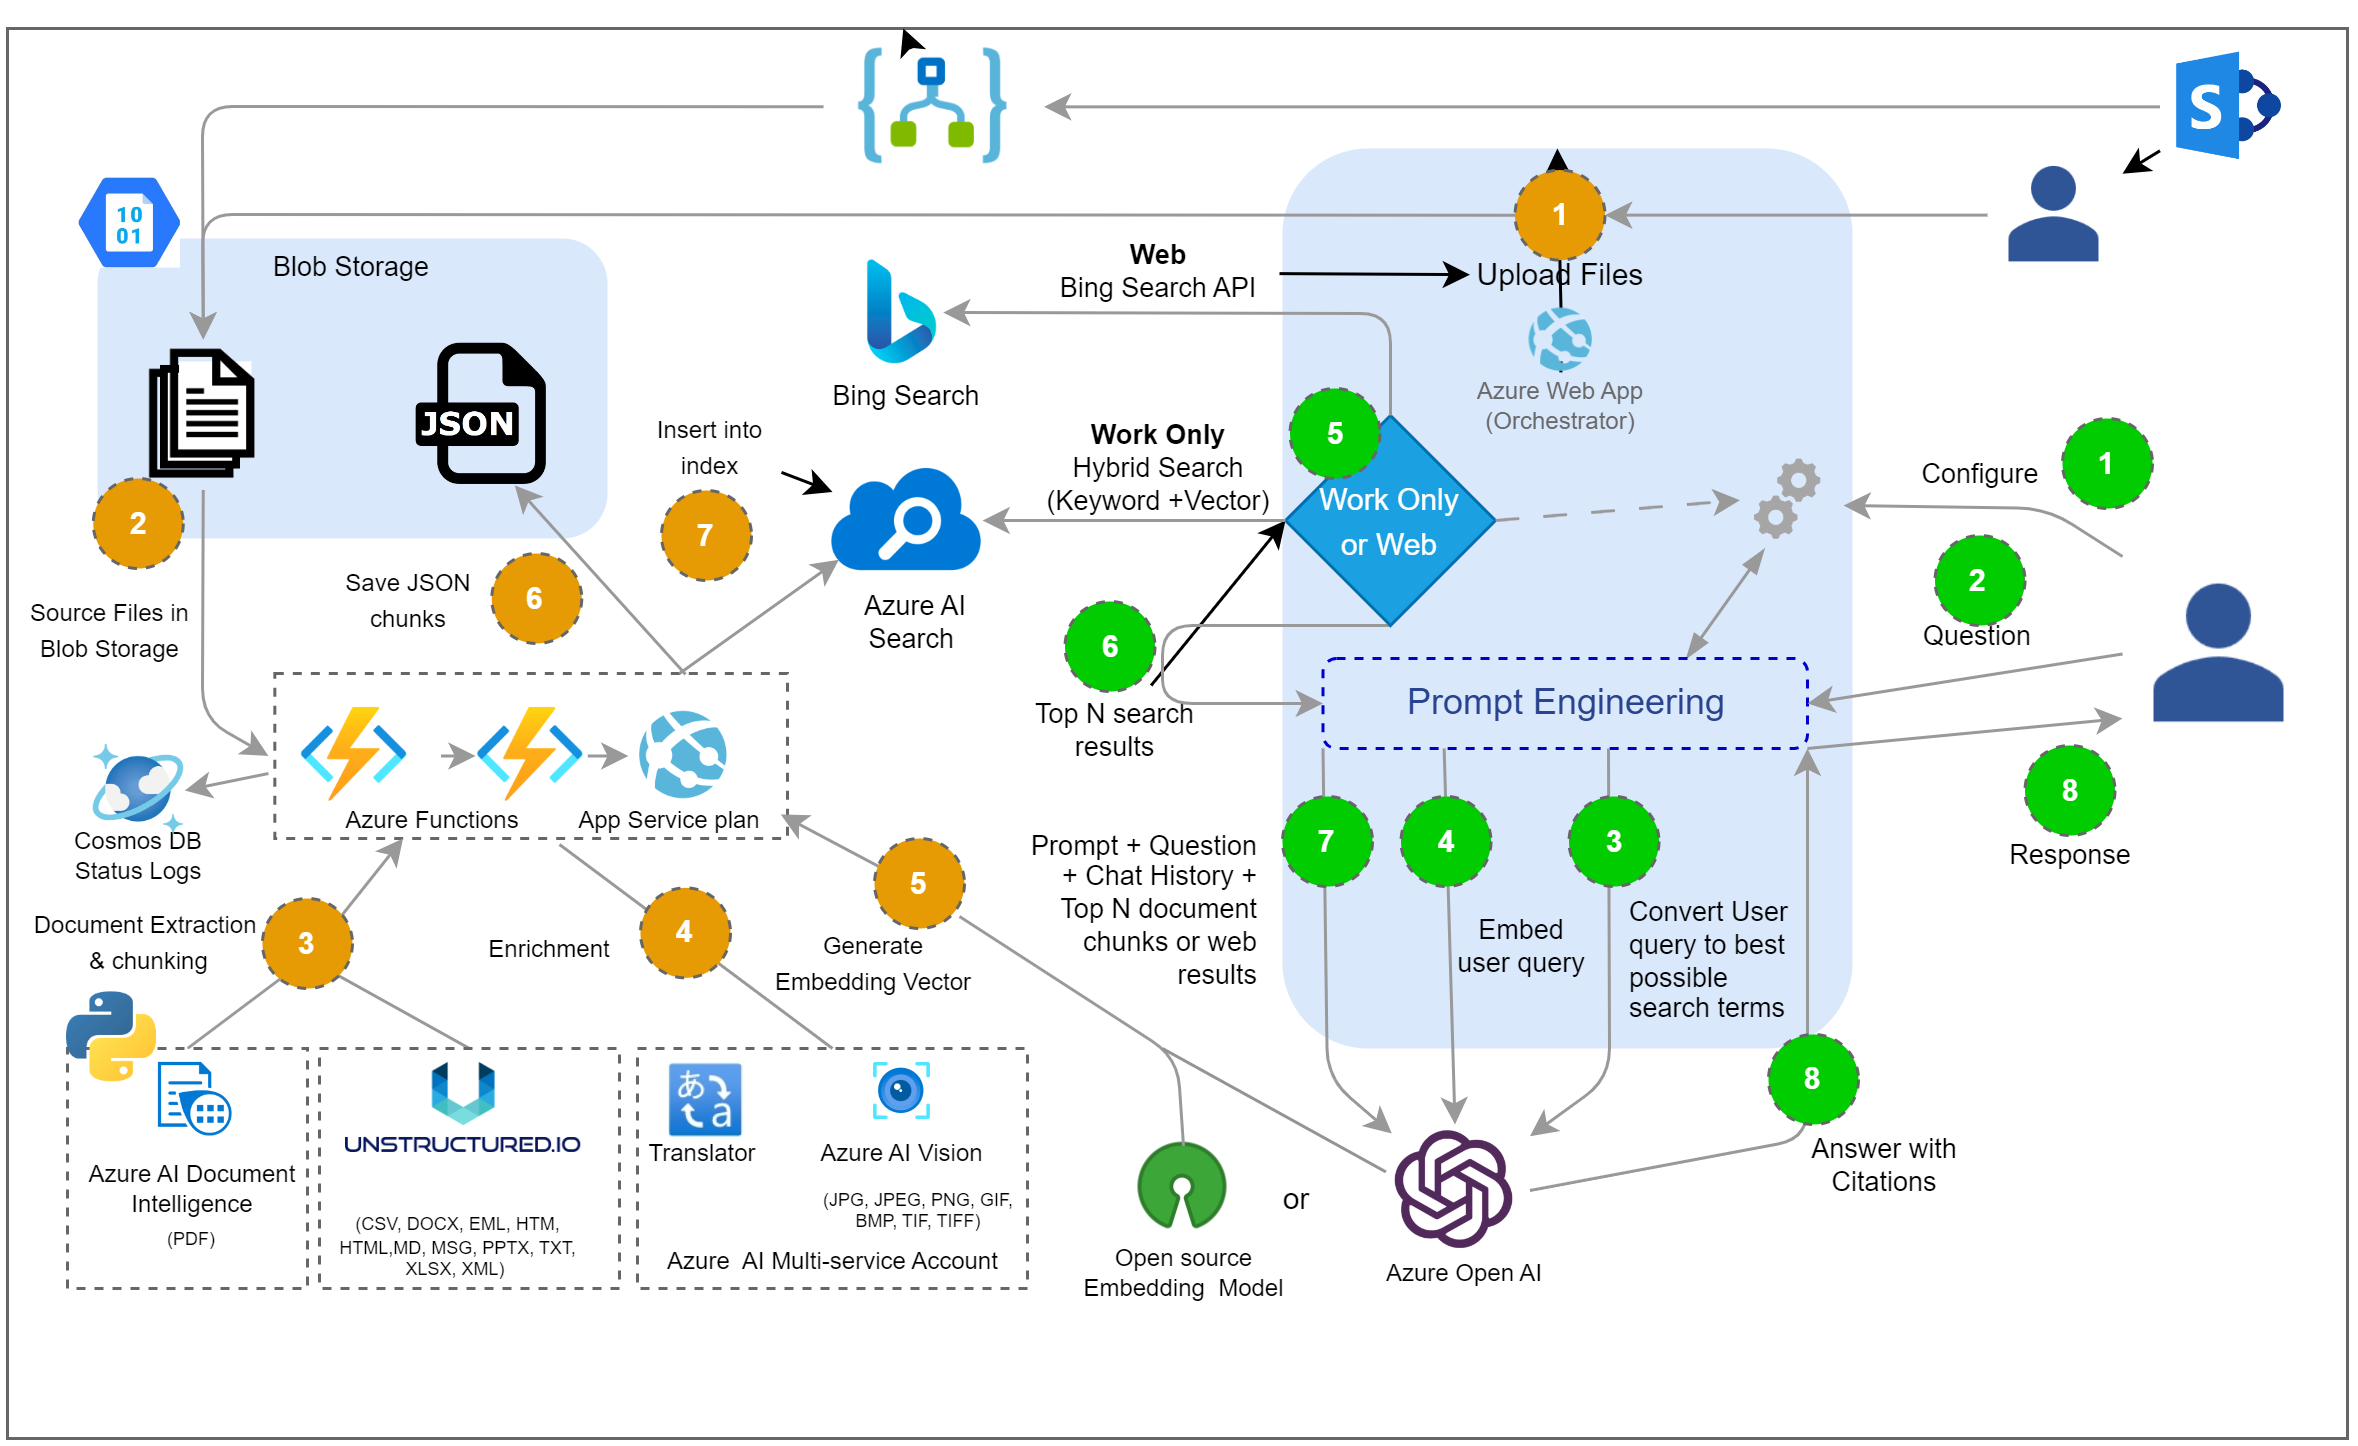
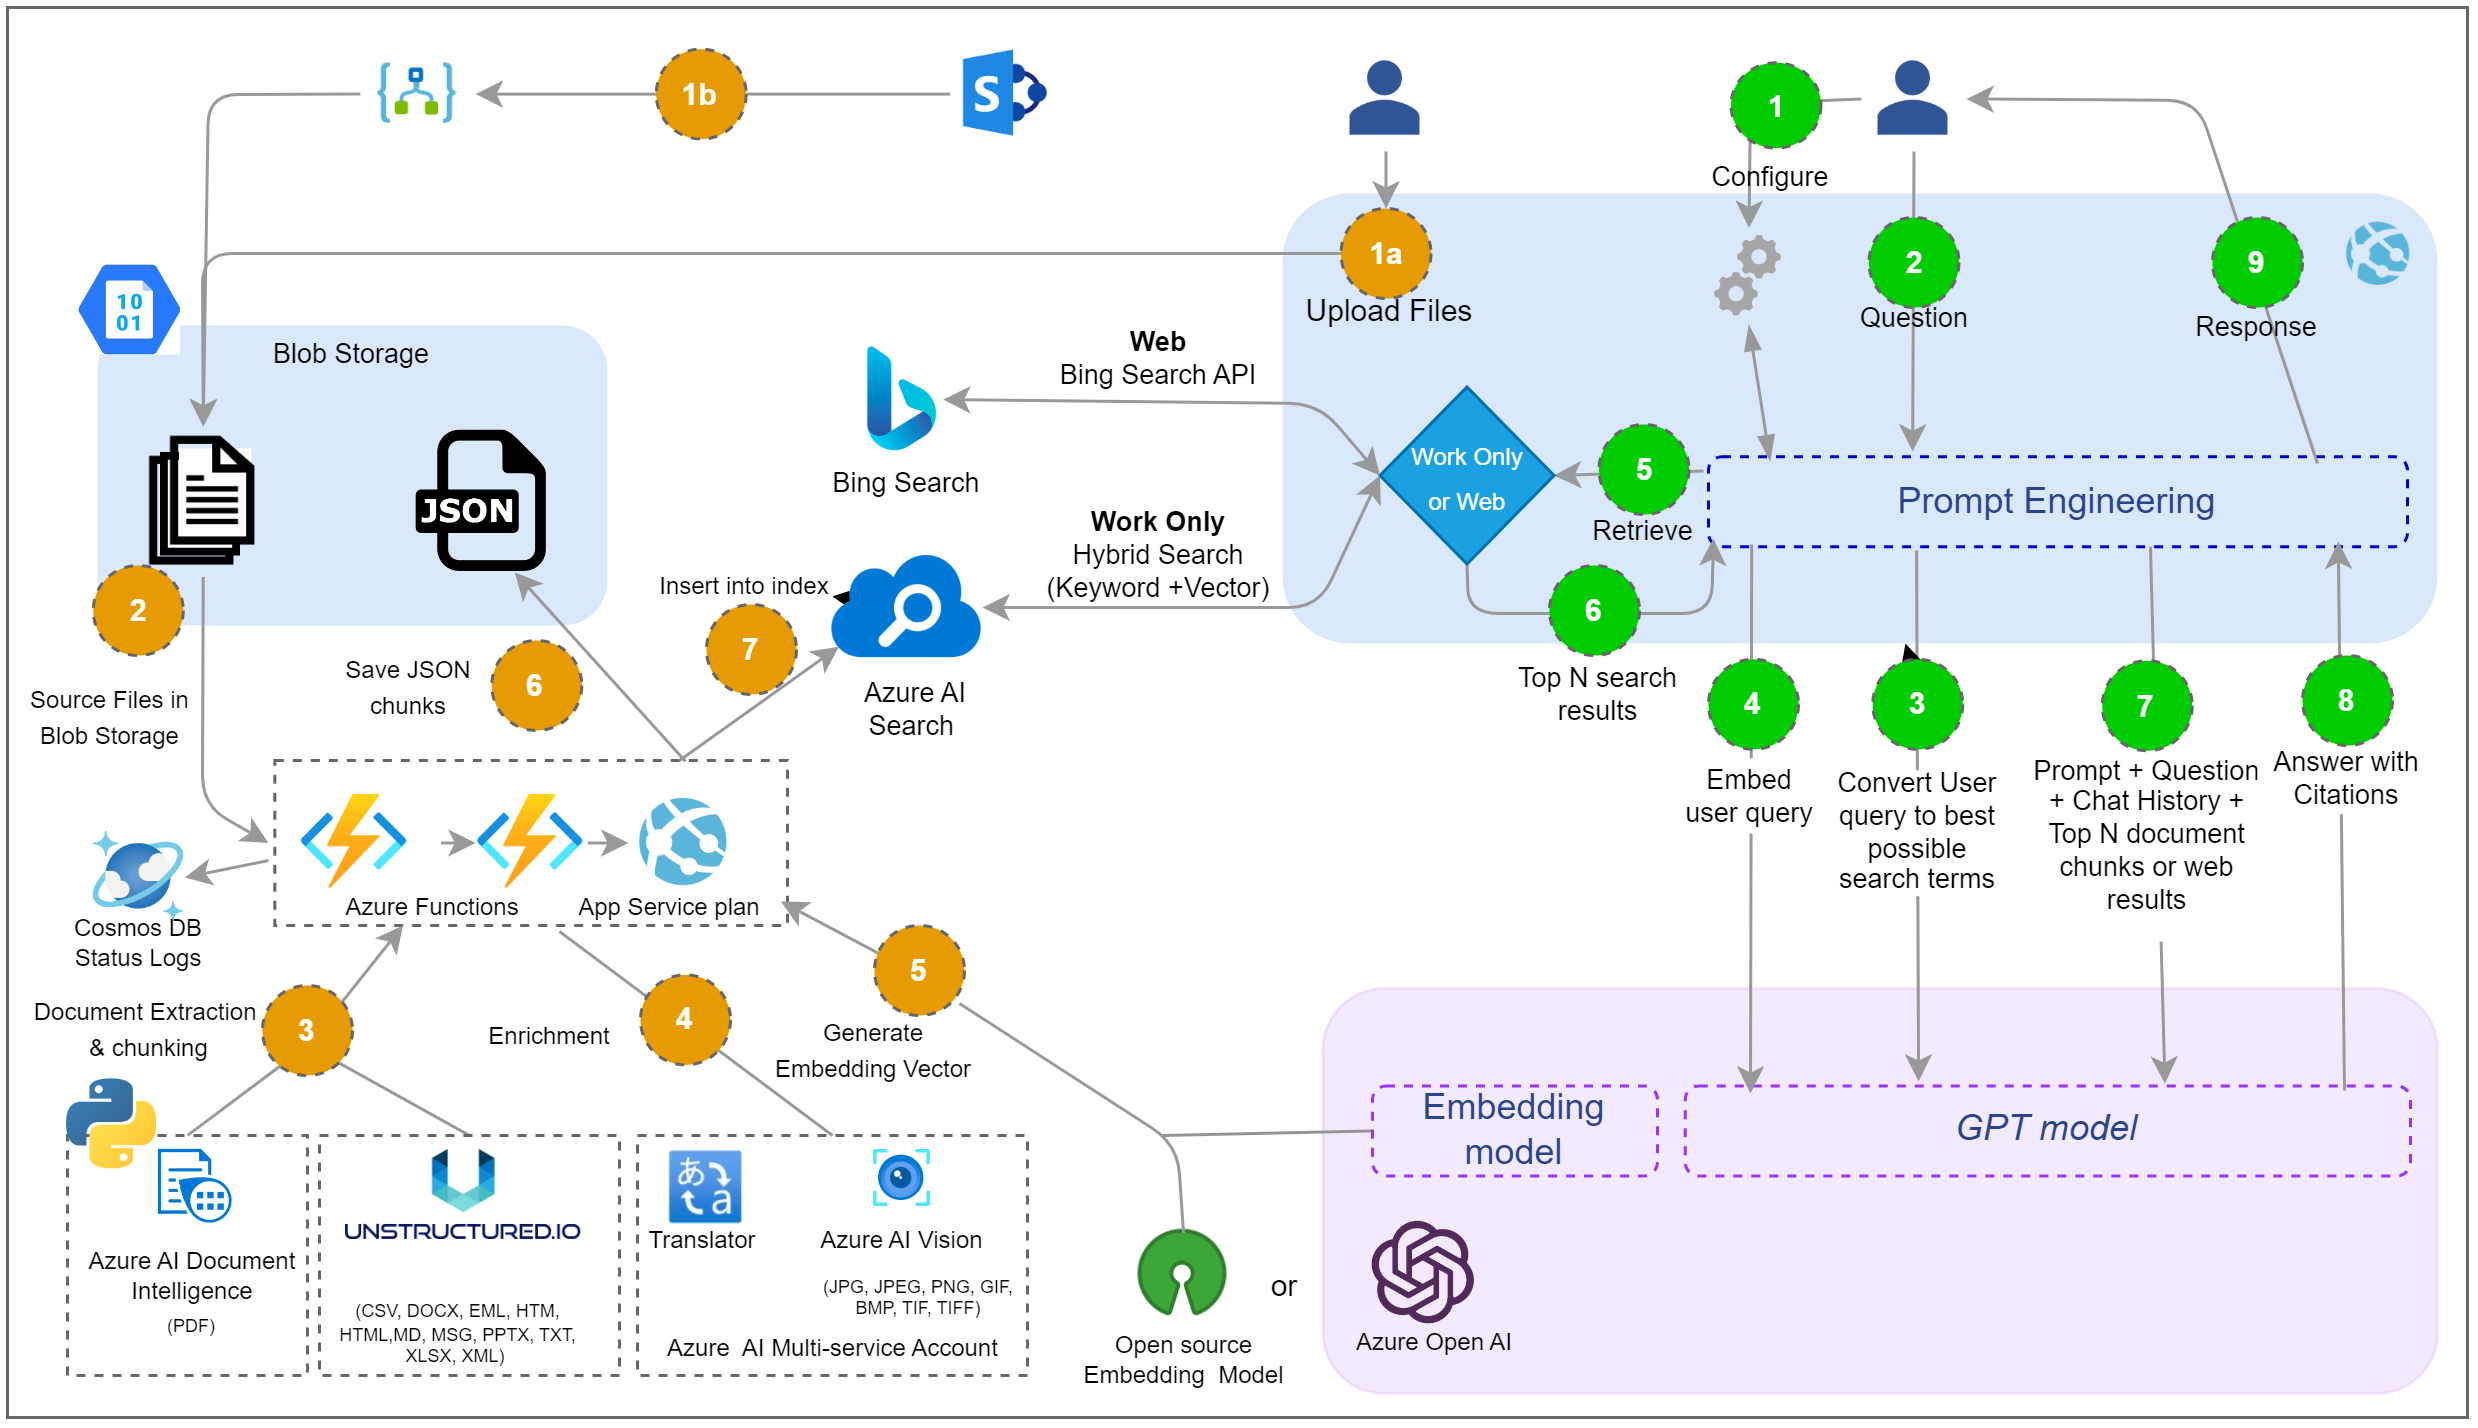
Update Arch diagrams and deployment docs

diff --git a/docs/deployment/deployment.md b/docs/deployment/deployment.md
@@ -55,9 +55,9 @@ ENABLE_BING_SAFE_SEARCH | No | Defaults to `true`. If you are using the `ENABLE_
 ENABLE_UNGROUNDED_CHAT | Defaults to `false`. This feature flag will enable the ability to interact directly with an LLM. This experience will be similar to the Azure OpenAI Playground.
 ENABLE_MATH_ASSISTANT | Yes | Defaults to `true`. This feature flag will enable the Math Assistant tab in the Information Assistant website. Read more information on the [Math Assistant](/docs/features/features.md) 
 ENABLE_TABULAR_DATA_ASSISTANT | Yes | Defaults to `true`. This feature flag will enable the Tabular Data Assistant tab in the Information Assistant website. Read more information about the [Tabular Data Assistant](/docs/features/features.md)
-ENABLE_SHAREPOINT_CONNECTOR | Yes | Defaults to `false`. This feature flag enabled the ability to ingest data from SharePoint document stores into the Information Assistant. When enabled, be sure to set the `SHAREPOINT_TO_SYNC` parameter for your SharePoint sites. Read more about configuring the [SharePoint Connector](/docs/features/sharepoint.md) 
+ENABLE_SHAREPOINT_CONNECTOR | Yes | Defaults to `false`. This feature flag enabled the ability to ingest data from SharePoint document stores into the Information Assistant. When enabled, be sure to set the `SHAREPOINT_TO_SYNC` parameter for your SharePoint sites. Read more about configuring the [SharePoint Connector](/docs/features/sharepoint.md). This feature flag is **NOT** compatible with `AZURE_ENVIRONMENT=AzureUSGovernment`.
 SHAREPOINT_TO_SYNC | No | This is a JSON Array of Objects for SharePoint Sites and their entry folders. The app will crawl down from the folder specified for each site. Specifying "/Shared Documents" will crawl all the documents in your SharePoint. `[{"url": "https://SharePoint.com/", "folder": "/Shared Documents"}]` This will **overwrite** any prior changes you've made to config.json. Information on setting up SharePoint Ingestion can be found here [SharePoint Connector](/docs/features/sharepoint.md)
-ENABLE_MULTIMEDIA | Yes | Defaults to `false`. This feature flag should not be changed at this time. The multimedia feature is still in development. Enabling this feature will deploy an Azure Video Indexer instance in your resource group only. 
+ENABLE_MULTIMEDIA | Yes | Defaults to `false`. This feature flag should not be changed at this time. The multimedia feature is still in development. Enabling this feature will deploy an Azure Video Indexer instance in your resource group only.
 REQUIRE_WEBSITE_SECURITY_MEMBERSHIP | Yes | Use this setting to determine whether a user needs to be granted explicit access to the website via an Azure AD Enterprise Application membership (true) or allow the website to be available to anyone in the Azure tenant (false). Defaults to false. If set to true, A tenant level administrator will be required to grant the implicit grant workflow for the Azure AD App Registration manually.
 SKIP_PLAN_CHECK | No | If this value is set to 1, then the BICEP deployment will not stop to allow you to review the planned changes. The default value is 0 in the scripts, which will allow the deployment to stop and confirm you accept the proposed changes before continuing.
 USE_EXISTING_AOAI | Yes | Defaults to false. Set this value to "true" if you want to use an existing Azure Open AI service instance in your subscription. This can be useful when there are limits to the number of AOAI instances you can have in one subscription. When the value is set to "false" and BICEP will create a new Azure Open AI service instance in your resource group.

diff --git a/docs/deployment/enable_sovereign_deployment.md b/docs/deployment/enable_sovereign_deployment.md
@@ -8,7 +8,7 @@ Only Sovereign regions / models supported are listed here: <https://learn.micros
 
 To enable a Sovereign region deployment, you need to update the local.env file with the following values
 
-1. Navigate to your `local.env` and update your region to a usgov region:
+1. Navigate to your `local.env` and update your location to a usgov region:
 
    ```bash
    export LOCATION="usgovvirginia"
@@ -22,16 +22,13 @@ To enable a Sovereign region deployment, you need to update the local.env file w
 
 2. Set **AZURE_ENVIRONMENT** parameter to `AzureUSGovernment`
 
-3. Set **USE_EXISTING_AOAI** parameter to `true` if you have a existing AOAI instance deployed.  If you want to create Azure Open AI resource during deployment then set this parameter to `false`
-
-4. If **USE_EXISTING_AOAI** is set to `true` then set the following parameters based on your AOAI deployment:
-   *You can find these values from <https://aoai.azure.us/portal> via the Deployments URL.*
+3. Ensure the following feature flags are disabled as they are not available in US Government deployments.
 
    ```bash
-   export AZURE_OPENAI_CHATGPT_MODEL_NAME="gpt-35-turbo-16k"
-   export AZURE_OPENAI_CHATGPT_MODEL_VERSION="0613"
-   export AZURE_OPENAI_EMBEDDINGS_MODEL_NAME="text-embedding-ada-002"
-   export AZURE_OPENAI_EMBEDDINGS_MODEL_VERSION="2"
+   export ENABLE_WEB_CHAT=false
+   export ENABLE_SHAREPOINT_CONNECTOR=false
    ```
+
+4. Set **USE_EXISTING_AOAI** parameter to `true` if you have a existing AOAI instance deployed.  If you want to create Azure Open AI resource during deployment then set this parameter to `false`
 
 5. Consider setting **CHAT_WARNING_BANNER_TEXT**  with `DEV / UNCLASSIFIED / NO CUI` or something similar if deployment is IL2.

diff --git a/README.md b/README.md
@@ -20,7 +20,7 @@
 - [Using the app](/docs/deployment/using_ia_first_time.md)
 - [Responsible AI](#responsible-ai)
   - [Transparency Note](#transparency-note)
-  - [Content Safety] (#content-safety)
+  - [Content Safety](#content-safety)
 - [Data Collection Notice](#data-collection-notice)
 - [Resources](#resources)
   - [Known Issues](./docs/knownissues.md)
@@ -64,10 +64,17 @@ The IA Accelerator contains several features, many of which have their own docum
 - Examples of custom Retrieval Augmented Generation (RAG), Prompt Engineering, and Document Pre-Processing
 - Azure AI Search Integration to include text search of both text documents and images
 - Customization and Personalization to enable enhanced AI interaction
+- Preview into autonomous agents
 
 For a detailed review see our [Features](./docs/features/features.md) page.
 
-![Process Flow](/docs/process_flow.png)
+### Process Flow for Work(Grounded), Ungrounded, and Work and Web
+
+![Process Flow for Chat](/docs/process_flow_chat.png)
+
+### Process Flow for Assistants
+
+![Process Flow for Assistants](/docs/process_flow_agent.png)
 
 ## Azure account requirements
 
@@ -79,7 +86,7 @@ For a detailed review see our [Features](./docs/features/features.md) page.
 
     Model Name | Supported Versions
     ---|---
-    gpt-35-turbo | 0301, 0613
+    gpt-35-turbo | current version
     **gpt-35-turbo-16k** | current version
     **gpt-4** | current version
     gpt-4-32k | current version
